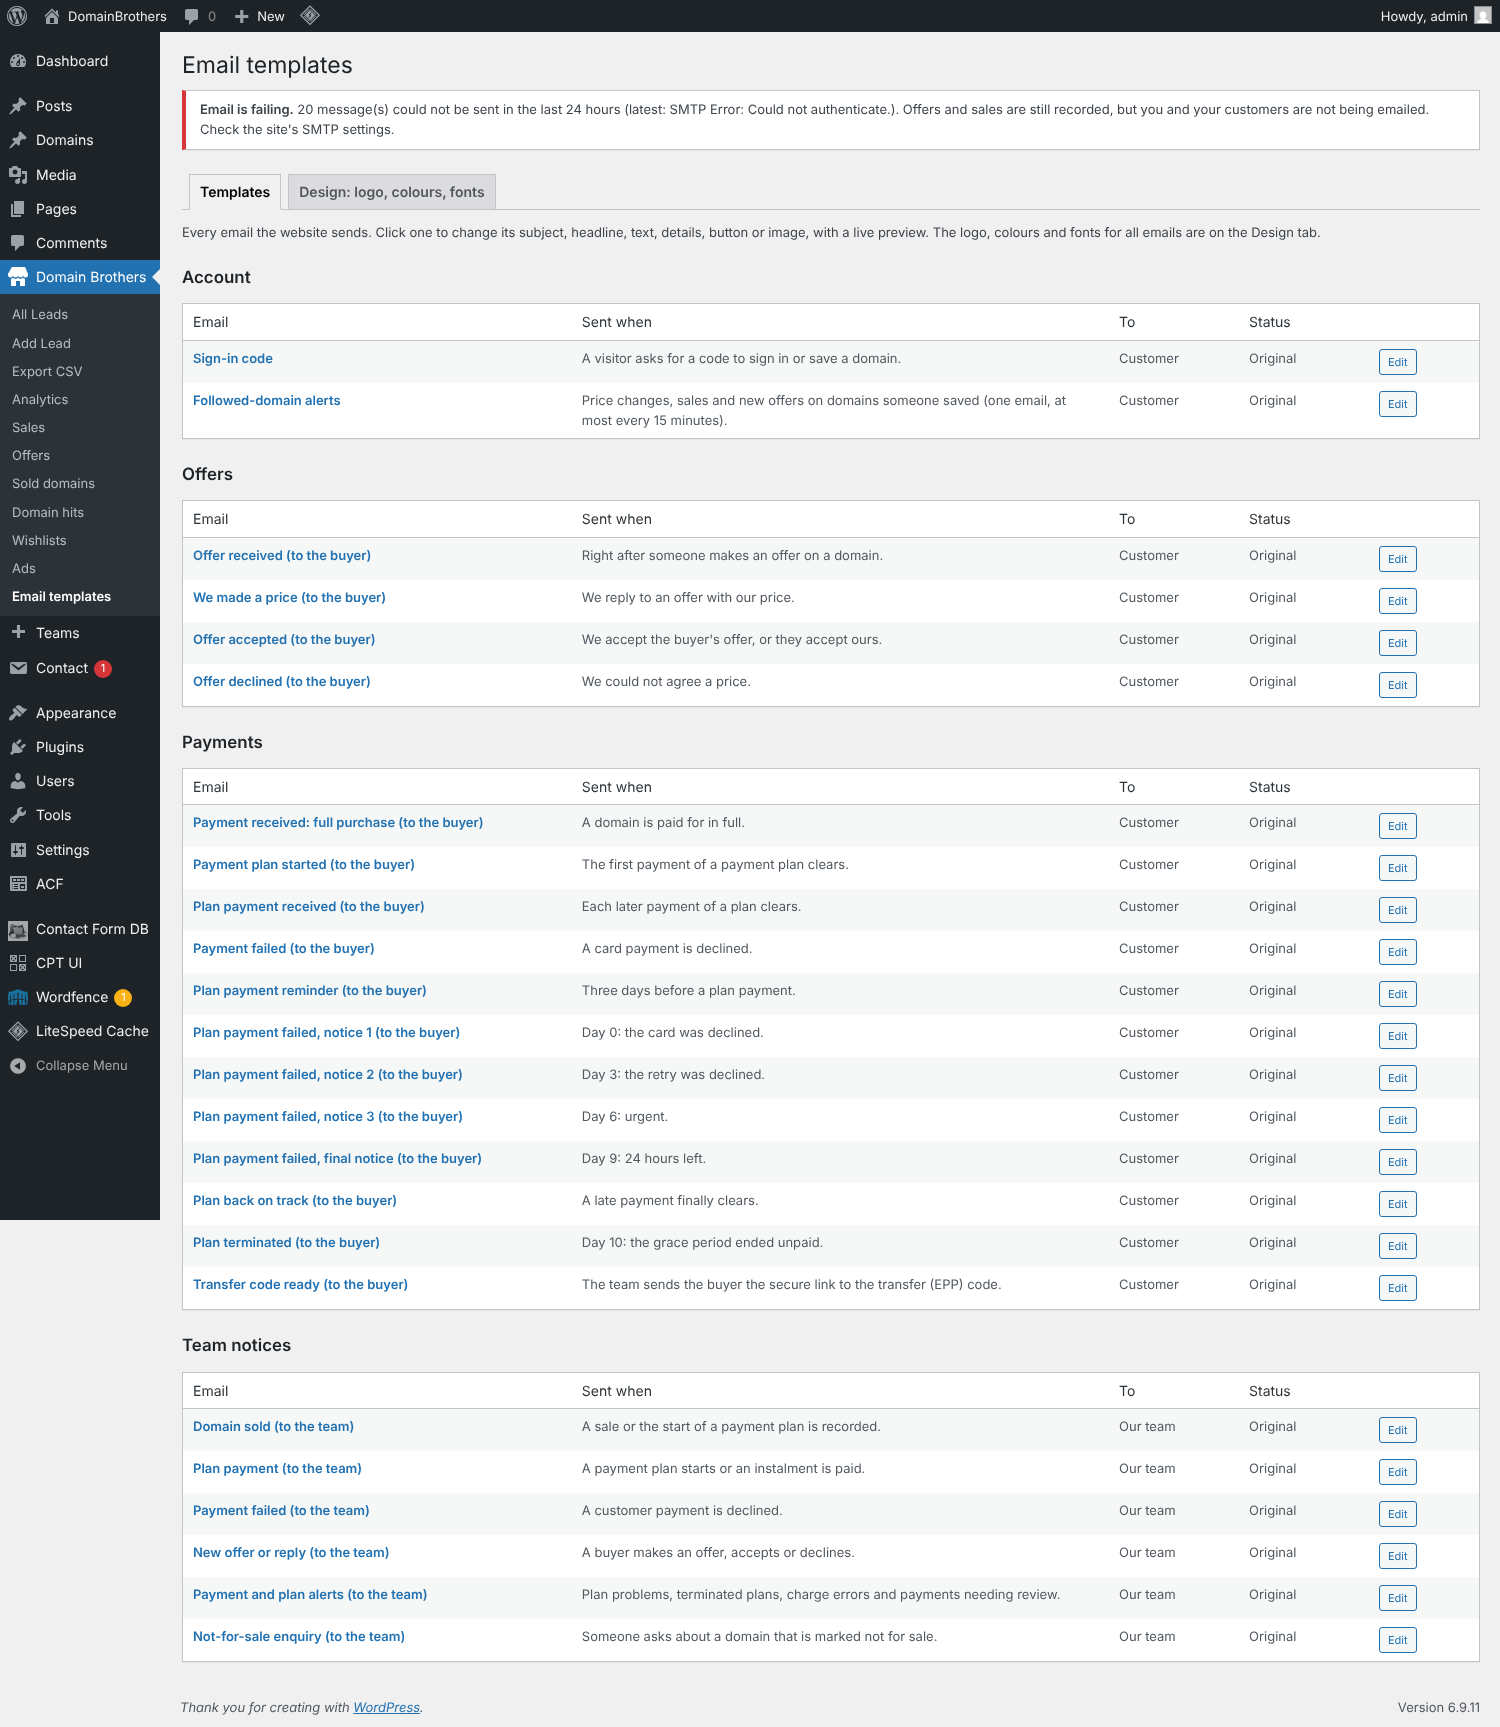
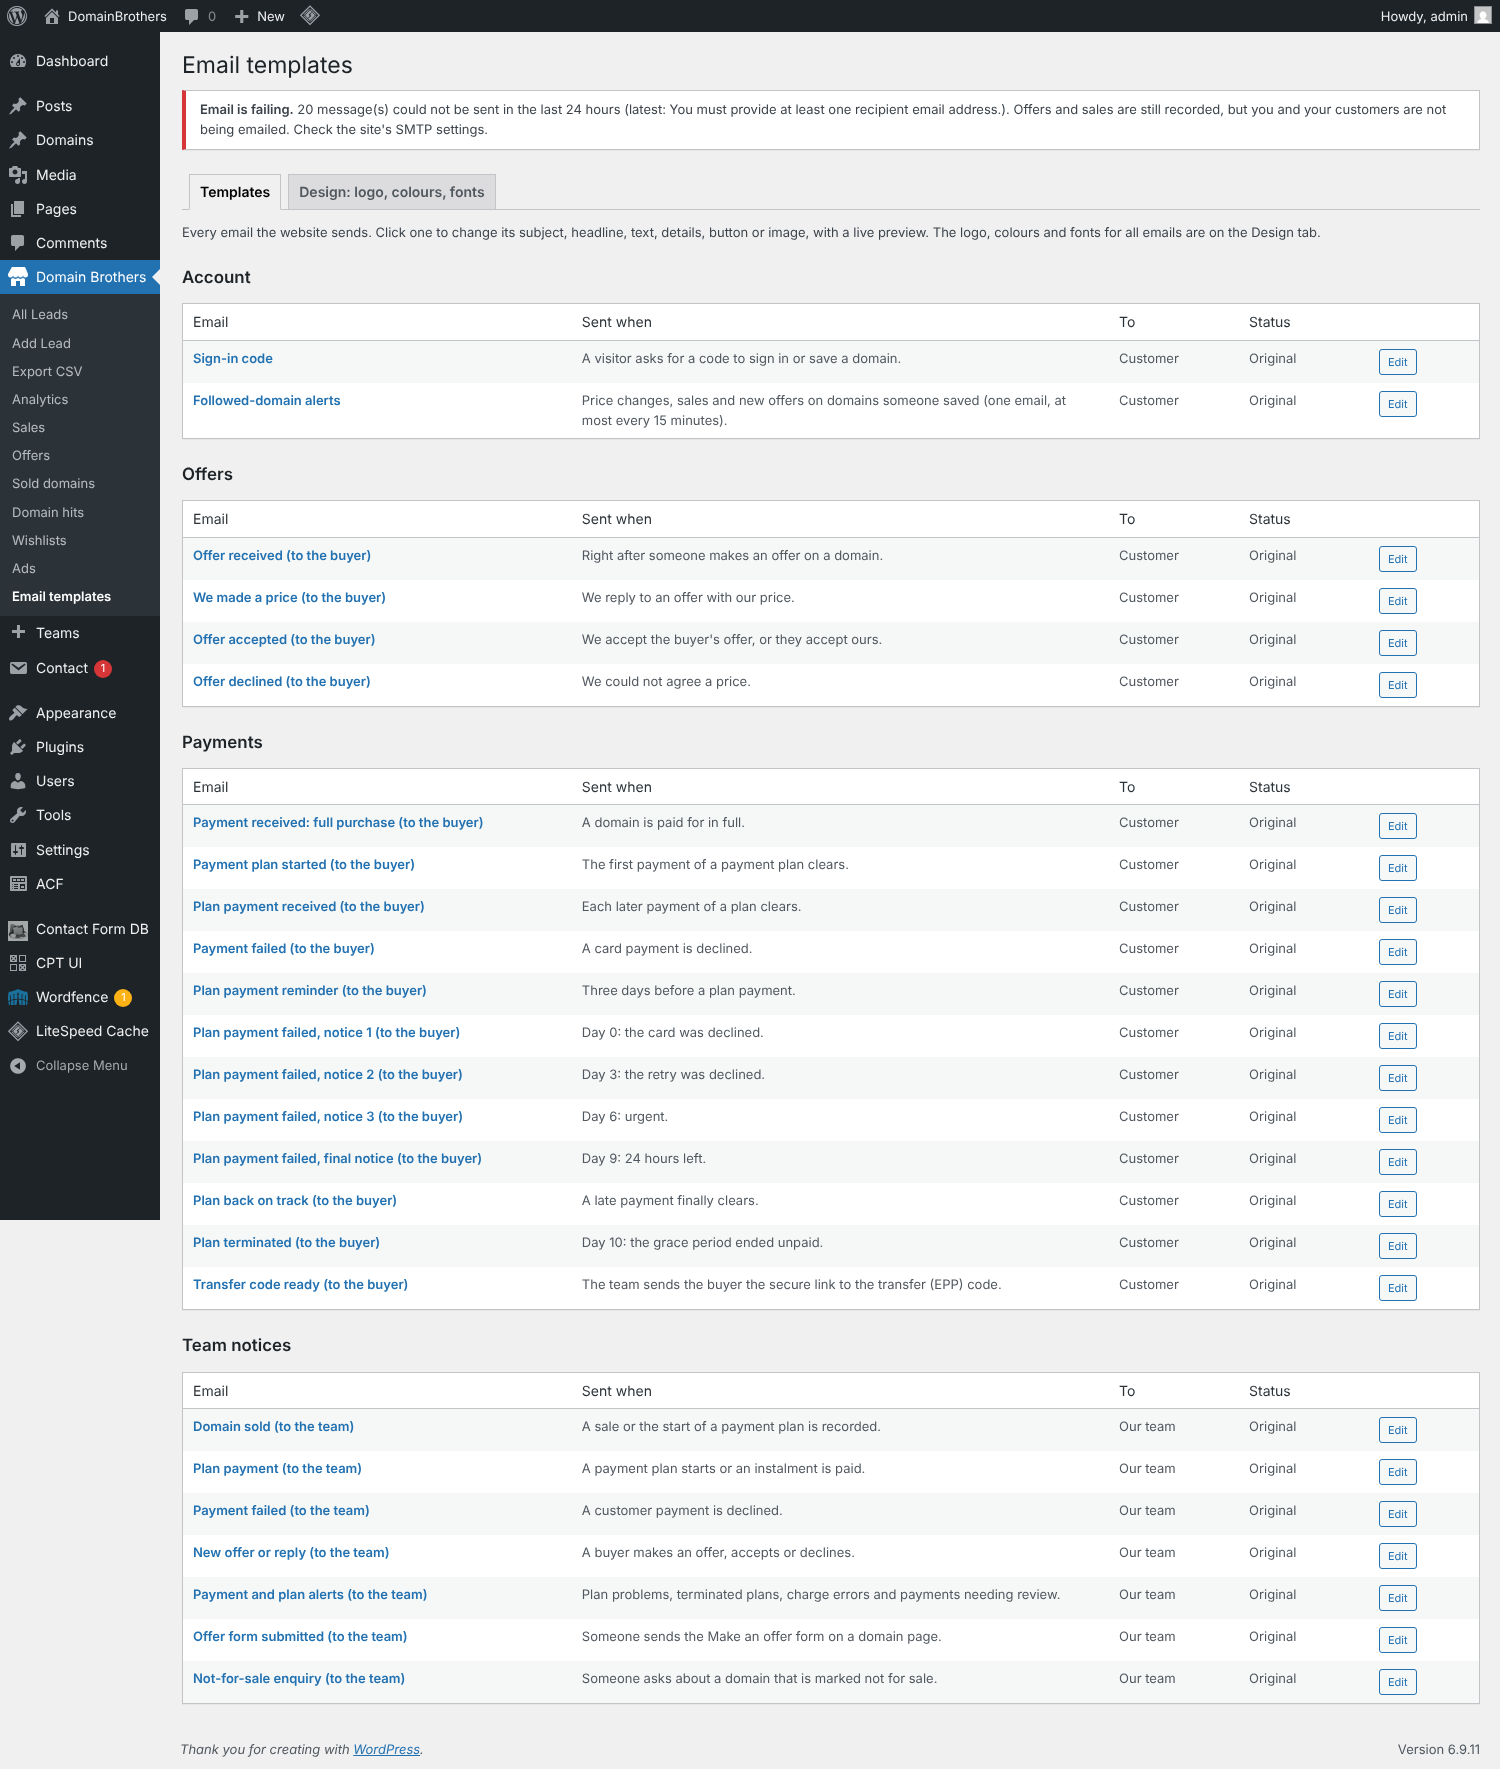
Fix offer form email showing HTML source; offer notification as a template; safety net for HTML documents in every email; v3.64.1
Claude-Session: https://claude.ai/code/session_01K6obJihKdmVCaNZTWGQrk7

diff --git a/tests/qa/email-templates.js b/tests/qa/email-templates.js
@@ -94,6 +94,13 @@ const check = (name, pass, detail = '') => { results.push({ name, pass }); conso
 	m = await lastMail(EMAIL);
 	check('Reset brings back the original subject', /^Your Domain Brothers sign-in code: \d{6}$/.test(m.subject), m.subject);
 
+	// 6b. a form that sends its own HTML document must never show as source code (the bug seen in Gmail)
+	const doc = '<!DOCTYPE html PUBLIC "-//W3C//DTD XHTML 1.0 Transitional//EN" "http://www.w3.org/TR/xhtml1/DTD/xhtml1-transitional.dtd"><html xmlns="http://www.w3.org/1999/xhtml"><head><meta http-equiv="Content-Type" content="text/html;charset=utf-8" /><title>Domain Brothers</title><style type="text/css">body{background:#fff;margin:0;} .logo{}</style></head><body><table><tr><td>Domain</td><td>brandable.com</td></tr><tr><td>Offer</td><td>$1,500</td></tr></table><script>alert(1)</script></body></html>';
+	const sample = await (await ctx.request.post(`${BASE}/wp-json/db/v1/email/cf7-sample`, { headers: { 'X-WP-Nonce': nonce, 'Content-Type': 'application/json' }, data: { body: doc } })).json();
+	const leaks = (h) => /&lt;\s*(!doctype|html|head|body|style)|<style type=|<script>alert|DOCTYPE html PUBLIC/i.test(h.replace(/<style>@media[\s\S]*?<\/style>/, ''));
+	check('a form\'s HTML document is shown as tidy text, not source code', !leaks(sample.html) && /brandable\.com/.test(sample.html) && /\$1,500/.test(sample.html));
+	check('a whole HTML document handed to the email shell is reduced to text (safety net)', !leaks(sample.wrapped) && /brandable\.com/.test(sample.wrapped));
+
 	// 7. security: only administrators
 	const anon = await browser.newContext({ ...creds });
 	const r = await anon.request.fetch(`${BASE}/wp-admin/admin-post.php`, { method: 'POST', form: { action: 'db_mail_save', tpl: 'signin_code', subject: 'hacked' }, maxRedirects: 0 });

diff --git a/db-custom-blocks/db-emails-block.php b/db-custom-blocks/db-emails-block.php
@@ -186,6 +186,72 @@ if ( ! function_exists( 'db_plan_email_shell' ) ) {
 	}
 }
 
+if ( ! function_exists( 'db_mail_html_to_text' ) ) {
+	/** Readable text from an HTML document: head, styles and scripts dropped, rows and paragraphs kept as lines. */
+	function db_mail_html_to_text( $html ) {
+		$html = (string) $html;
+		if ( preg_match( '#<body[^>]*>(.*)</body>#is', $html, $m ) ) {
+			$html = $m[1];
+		}
+		$html = preg_replace( '#<(head|style|script|title)\b.*?</\1>#is', '', $html );
+		$html = preg_replace( '#<(br|/p|/div|/tr|/h[1-6]|/li|/table)\s*/?>#i', "\n", $html );
+		$html = preg_replace( '#</t[dh]>#i', ' ', $html );
+		$text = html_entity_decode( wp_strip_all_tags( $html ), ENT_QUOTES, 'UTF-8' );
+		$text = preg_replace( "/[ \t]+/", ' ', $text );
+		$text = preg_replace( "/ ?\n ?/", "\n", $text );
+		return trim( preg_replace( "/\n{3,}/", "\n\n", $text ) );
+	}
+}
+
+if ( ! function_exists( 'db_mail_safe_body' ) ) {
+	/**
+	 * Last line of defence for every email: the body must never be the source code of a page.
+	 * A whole HTML document is reduced to its readable text, and so is an escaped one
+	 * (the "&lt;!DOCTYPE ..." mistake that showed raw markup in an inbox).
+	 */
+	function db_mail_safe_body( $body_html ) {
+		$b = (string) $body_html;
+		if ( preg_match( '/&lt;\s*(!doctype|html|head|body)\b/i', $b ) ) {
+			return '<p>' . nl2br( esc_html( db_mail_html_to_text( html_entity_decode( $b, ENT_QUOTES, 'UTF-8' ) ) ) ) . '</p>';
+		}
+		if ( preg_match( '/^\s*(<!doctype|<html\b)/i', $b ) || preg_match( '/<html\b[^>]*>.*<head\b/is', $b ) ) {
+			return '<p>' . nl2br( esc_html( db_mail_html_to_text( $b ) ) ) . '</p>';
+		}
+		return $b;
+	}
+}
+
+if ( ! function_exists( 'db_mail_cf7_body' ) ) {
+	/**
+	 * The inner content for a Contact Form 7 notification. An offer form becomes the structured
+	 * "Offer form submitted" template; any other form becomes tidy text. A form that sends its
+	 * own HTML is never escaped and shown as source, and visitor text is always escaped.
+	 *
+	 * @param array|null $posted The submitted fields.
+	 * @return array{inner:string,pre:string}
+	 */
+	function db_mail_cf7_body( $raw_body, $is_offer, $posted ) {
+		if ( $is_offer && is_array( $posted ) && function_exists( 'db_offer_value' ) && '' !== db_offer_value( $posted, 'domain' ) ) {
+			$amt = db_offer_value( $posted, 'amount' );
+			$m   = db_mail_compose( 'admin_form_offer', array(
+				'domain'       => strtolower( db_offer_value( $posted, 'domain' ) ),
+				'name'         => db_offer_value( $posted, 'name' ),
+				'email'        => db_offer_value( $posted, 'email' ),
+				'phone'        => db_offer_value( $posted, 'phone' ),
+				'offer_amount' => '' !== $amt ? ( '$' === substr( $amt, 0, 1 ) ? $amt : '$' . $amt ) : '',
+				'message_html' => '' !== db_offer_value( $posted, 'message' ) ? '<p>' . nl2br( esc_html( db_offer_value( $posted, 'message' ) ) ) . '</p>' : '',
+				'admin_url'    => admin_url( 'admin.php?page=db-offers' ),
+			) );
+			if ( $m && $m['enabled'] ) {
+				return array( 'inner' => $m['inner'], 'pre' => $m['pre'] );
+			}
+		}
+		$text  = db_mail_html_to_text( (string) $raw_body );
+		$inner = db_mail_inner( array( 'body_html' => '<p style="text-align:left">' . nl2br( esc_html( $text ) ) . '</p>', 'raw_body' => true ) );
+		return array( 'inner' => $inner, 'pre' => '' );
+	}
+}
+
 if ( ! function_exists( 'db_mail_wrap' ) ) {
 	/** The full email: soft background, white rounded card, logo on top, small centred footer. */
 	function db_mail_wrap( $subject, $body_html, $from_name = 'Domain Brothers', $from_email = 'sales@domainbrothers.com' ) {
@@ -199,6 +265,7 @@ if ( ! function_exists( 'db_mail_wrap' ) ) {
 		$fonts  = db_mail_fonts();
 		$stack  = ( $fonts[ $d['font'] ] ?? $fonts['system'] )[1];
 		$logo_w = max( 80, min( 320, (int) $d['logo_width'] ) );
+		$body_html = db_mail_safe_body( $body_html );
 		$pre    = isset( $GLOBALS['db_mail_pre'] ) ? (string) $GLOBALS['db_mail_pre'] : '';
 		unset( $GLOBALS['db_mail_pre'] );
 		$site   = esc_url( home_url( '/' ) );
@@ -384,6 +451,14 @@ if ( ! function_exists( 'db_mail_registry' ) ) {
 				'subject' => '{{subject_line}}', 'eyebrow' => 'Alert', 'heading' => '{{title}}',
 				'body'  => '{{lines_html}}',
 				'details' => '', 'cta' => '', 'cta_var' => '', 'tone' => 'warn',
+			),
+			'admin_form_offer' => array(
+				'group' => 'Team notices', 'label' => 'Offer form submitted (to the team)', 'to' => 'team', 'critical' => false,
+				'when'  => 'Someone sends the Make an offer form on a domain page.',
+				'vars'  => $dom + array( 'name' => array( 'Their name', 'Alex Buyer' ), 'email' => array( 'Their email', 'buyer@example.com' ), 'phone' => array( 'Their phone', '+1 555 0100' ), 'offer_amount' => array( 'The amount offered', '$1,500' ), 'message_html' => array( 'Their message', '<p>Interested for my startup.</p>' ), 'admin_url' => array( 'Link to the offers screen', admin_url( 'admin.php?page=db-offers' ) ) ),
+				'subject' => 'You have received an offer for {{domain}}', 'eyebrow' => 'New offer', 'heading' => 'An offer on {{domain}}',
+				'body'  => '<p>Someone sent an offer through the website.</p>{{message_html}}',
+				'details' => "Domain|{{domain}}\nOffer|{{offer_amount}}\nName|{{name}}\nEmail|{{email}}\nPhone|{{phone}}", 'cta' => 'Respond to the offer', 'cta_var' => 'admin_url', 'tone' => 'good',
 			),
 			'admin_enquiry'    => array(
 				'group' => 'Team notices', 'label' => 'Not-for-sale enquiry (to the team)', 'to' => 'team', 'critical' => false,
@@ -887,6 +962,20 @@ add_action( 'rest_api_init', function () {
 			$to = strtolower( trim( (string) $req->get_param( 'to' ) ) );
 			$m  = get_transient( 'db_mail_last_' . md5( $to ) );
 			return new WP_REST_Response( is_array( $m ) ? $m : array( 'subject' => '', 'html' => '' ) );
+		},
+	) );
+} );
+
+add_action( 'rest_api_init', function () {
+	register_rest_route( 'db/v1', '/email/cf7-sample', array(
+		'methods'             => 'POST',
+		'permission_callback' => function () {
+			return function_exists( 'db_wl_is_staging' ) && db_wl_is_staging() && current_user_can( 'manage_options' );
+		},
+		'callback'            => function ( WP_REST_Request $req ) {
+			$body = (string) $req->get_param( 'body' );
+			$r    = db_mail_cf7_body( $body, false, null );
+			return new WP_REST_Response( array( 'html' => db_mail_wrap( 'Sample', $r['inner'] ), 'wrapped' => db_mail_wrap( 'Sample', $body ) ) );
 		},
 	) );
 } );

diff --git a/db-custom-blocks/db-email-thankyou-block.php b/db-custom-blocks/db-email-thankyou-block.php
@@ -332,13 +332,18 @@ add_filter( 'wpcf7_mail_components', function ( $components, $cf7 ) {
 		$subj       = ! empty( $components['subject'] ) ? (string) $components['subject'] : 'Message — Domain Brothers';
 		$raw_body   = (string) $components['body'];
 
-		// CF7's default mail body is plain text — always escape it before we
-		// force an HTML content-type below. Treating any '<' in the visitor's
-		// own message as "already safe HTML" would let attacker-supplied
-		// markup render live in the recipient's mail client.
-		$body_html = '<p>' . nl2br( esc_html( $raw_body ) ) . '</p>';
-
-		$components['body'] = db_mail_wrap( $subj, $body_html, $from_name, $from_email );
+		// The body is plain text or the form's own HTML template. Either way it is turned
+		// into tidy text (or the offer template) and escaped: visitor text never becomes
+		// live markup, and a form's HTML document is never shown as source code.
+		if ( function_exists( 'db_mail_cf7_body' ) ) {
+			$posted = class_exists( 'WPCF7_Submission' ) && WPCF7_Submission::get_instance() ? WPCF7_Submission::get_instance()->get_posted_data() : null;
+			$r      = db_mail_cf7_body( $raw_body, function_exists( 'db_is_offer_form' ) && db_is_offer_form( $cf7 ), $posted );
+			$GLOBALS['db_mail_pre'] = $r['pre'];
+			$components['body'] = db_mail_wrap( $subj, $r['inner'], $from_name, $from_email );
+		} else {
+			$body_html = '<p>' . nl2br( esc_html( $raw_body ) ) . '</p>';
+			$components['body'] = db_mail_wrap( $subj, $body_html, $from_name, $from_email );
+		}
 	}
 
 	// Ensure HTML content-type header.

diff --git a/db-custom-blocks/db-custom-blocks.php b/db-custom-blocks/db-custom-blocks.php
@@ -3,7 +3,7 @@
  * Plugin Name: Domain Brothers Custom Blocks
  * Plugin URI:  https://beta.domainbrothers.com
  * Description: All Domain Brothers custom functionality — Stripe checkout & webhooks, CRM lead management, branded email system, thank-you flows, SMTP routing, offer flow, payment plans, modern UI, AEO/SEO, performance hardening, honeypot anti-spam, dynamic meta, and service pages.
- * Version:     3.64.0
+ * Version:     3.64.1
  * Author:      Domain Brothers
  * License:     Proprietary
  * Text Domain: db-blocks
@@ -26,7 +26,7 @@ if ( ! defined( 'ABSPATH' ) ) {
 if ( defined( 'DB_BLOCKS_LOADED' ) ) {
 	return;
 }
-define( 'DB_BLOCKS_LOADED', '3.64.0' );
+define( 'DB_BLOCKS_LOADED', '3.64.1' );
 
 if ( ! function_exists( 'db_brand_logo_url' ) ) {
 	/**

diff --git a/QA_REPORT.md b/QA_REPORT.md
@@ -523,3 +523,9 @@ Tests: `tests/qa/account-flow.js` 27/27 (price drop, offer, sale, the one email 
 ## 28. AdSense slots across the site (v3.63.1)
 
 Seven slots, set under Domain Brothers > Ads (publisher id plus an ad unit id per slot; an empty slot shows nothing; one ad unit can be reused): after the three buying options, after details and pricing, after How buying works (domain pages); home page (after buyers/sellers and How it works); domain lists and categories (below the list); pages, news and services (after the content); sold and not-for-sale pages. Never on checkout, payment plan, thank-you, terms, privacy, account or admin pages. Checked on staging: slot present on home, about, contact, all domains, news and category pages, absent on buy-now, terms, thank-you, payment-plan-setup and my-wishlist. Site QA 407/407, listing templates 6/6, wishlist 20/20. Real ads need your AdSense ids and a consent banner for EEA/UK/Swiss visitors.
+
+## 29. Fix: offer form email showed HTML source (v3.64.1)
+
+**Cause.** The Contact Form 7 offer notification sends its own full HTML document. The email wrapper treated every CF7 body as plain text and escaped it, so Gmail showed `<!DOCTYPE html ...<style>...` inside the card.
+**Fix.** (1) The offer form's notification is now built from the submitted fields with the editable template "Offer form submitted (to the team)": domain, offer, name, email, phone, message. (2) Any other CF7 body that is HTML is reduced to tidy text, never escaped markup. (3) Safety net in the shared email shell: any body that is a whole HTML document, or its escaped form, is reduced to readable text, for every email the site sends. Visitor text is still always escaped.
+**Checks.** `tests/qa/email-templates.js` 14/14, including a full HTML document through the CF7 path and straight into the shell (no `&lt;!DOCTYPE`, no `<style>` text, no script). A real submission of the live offer form (#1878) on staging produced an email with the card, the amount and the name, and no source code.
